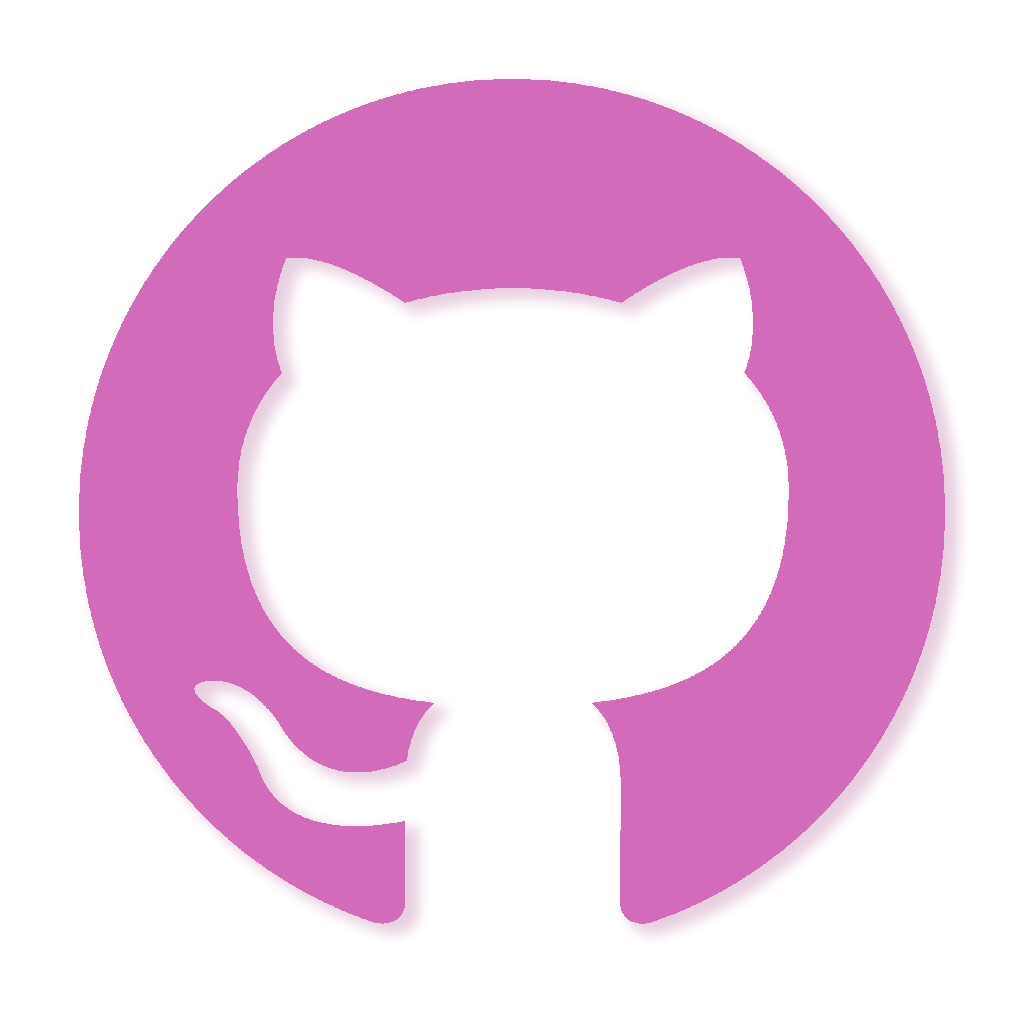
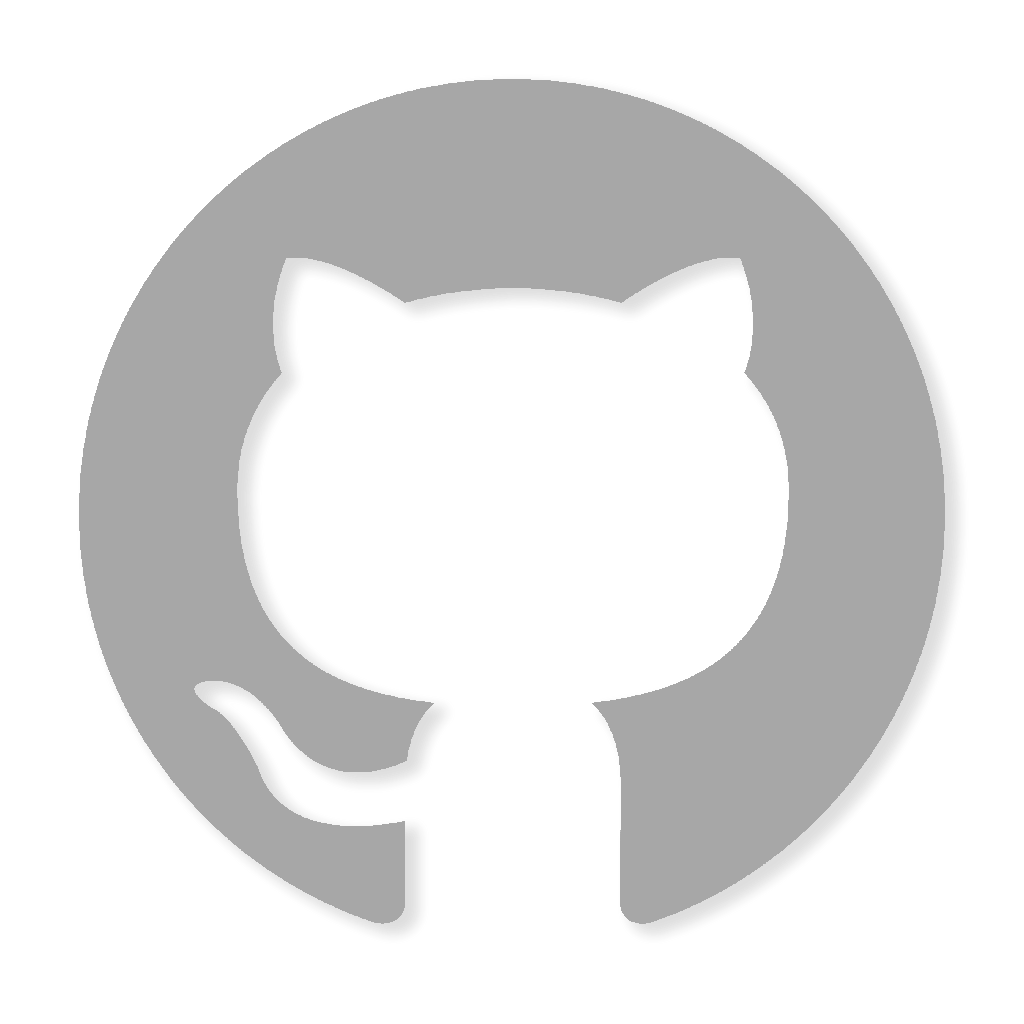
update color-scheme

diff --git a/index.html b/index.html
@@ -23,12 +23,11 @@
     
     <!-- Navbar -->
     <div class="header">
-        <a href="#default" class="logo" data-aos="zoom-in">Timmy</a>
+        <span style="font-size:30px;cursor:pointer" onclick="openNav()">&#9776; </span>
         <div class="header-right">
-          <a class="active" href="index.html" data-aos="zoom-in">About</a>
-          <a href="blog.html" data-aos="zoom-in" data-aos="zoom-in">Blog</a>
-          <a href="projects.html" data-aos="zoom-in">Projects</a>
-          <span style="font-size:30px;cursor:pointer" onclick="openNav()">&#9776; </span>
+          <a class="active" href="index.html">About</a>
+          <a href="blog.html">Blog</a>
+          <a href="projects.html">Projects</a>
         </div>
     </div>
     
@@ -36,7 +35,7 @@
     <!-- Section -->
     <section class="centered">
         <div>
-            <h1 class="hero__header pink__colored" data-aos="fade-right">Hello, Im</h1>
+            <h1 class="hero__header" data-aos="fade-right">Hello, Im</h1>
             <h1 class="hero__header" data-aos="flip-down">Timothy</h1>
             <h1 class="hero__header" data-aos="fade-left">Pidashev</h1>
         </div>
@@ -48,11 +47,11 @@
         <div>
             <h1 class="about__header" data-aos="zoom-out">
                 I'm a 17-year-old on an
-                <span class="orange__highlight">epic journey</span>
+                <span class="highlight">epic journey</span>
             </h1>
             <h1 class="about__header" data-aos="flip-down">
                 to become a
-                <span class="orange__highlight">software developer!</span>
+                <span class="highlight">software developer!</span>
             </h1>
         </div>
         <img src="images/elements/png/line_short.png" alt="line" class="divider__line" data-aos="flip-left">

diff --git a/css/styles.css b/css/styles.css
@@ -7,13 +7,13 @@
 /* Navbar */
 .header {
     overflow: hidden;
-    background-color: #FB93DA;
+    background-color: #333333;
     padding: 20px 10px;
   }
   
   .header a {
     float: left;
-    color: #404082;
+    color: #BBBBBB;
     text-shadow: 3px 2px 2px rgba(199, 130, 59, 0.15);
     text-align: center;
     padding: 12px;
@@ -25,17 +25,17 @@
   
   .header a.logo {
     font-size: 25px;
-    font-weight: bold;
+    font-weight: bold;  
   }
   
   .header a:hover {
-    background-color: #D26BB9;
+    background-color: #BBBBBB;
     color: black;
   }
   
   .header a.active {
-    background-color: #404082;
-    color: white;
+    background-color: #BBBBBB;
+    color: black;
   }
   
   .header-right {
@@ -86,8 +86,8 @@
 
 /* Style */
 html {
-    background-color: #FB93DA;
-    color: #404082;
+    background-color: #333333;
+    color: #BBBBBB;
     font-family: 'Montserrat', sans-serif;
     font-weight: 400;
     font-size: 1vh;
@@ -121,12 +121,8 @@ html {
     align-items: center;
 }
 
-.pink__colored {
-    color: #D26BB9;
-}
-
-.orange__highlight {
-    background-color: #D26BB9;
+.highlight {
+    background-color: #EEEEEE;
     border-radius: 20px;
     line-height: 1.5;
     padding-right: 0.9vw;

diff --git a/blog.html b/blog.html
@@ -23,12 +23,11 @@
     
     <!-- Navbar -->
     <div class="header">
-        <a href="#default" class="logo" data-aos="zoom-in">Timmy</a>
+        <span style="font-size:30px;cursor:pointer" onclick="openNav()">&#9776; </span>
         <div class="header-right">
-          <a href="index.html" data-aos="zoom-in">About</a>
-          <a class="active" href="blog.html" data-aos="zoom-in" data-aos="zoom-in">Blog</a>
-          <a href="projects.html" data-aos="zoom-in">Projects</a>
-          <span style="font-size:30px;cursor:pointer" onclick="openNav()">&#9776; </span>
+          <a href="index.html">About</a>
+          <a class="active" href="blog.html">Blog</a>
+          <a href="projects.html">Projects</a>
         </div>
     </div>
     

diff --git a/projects.html b/projects.html
@@ -24,12 +24,11 @@
     
     <!-- Navbar -->
     <div class="header">
-        <a href="#default" class="logo" data-aos="zoom-in">Timmy</a>
+        <span style="font-size:30px;cursor:pointer" onclick="openNav()">&#9776; </span>
         <div class="header-right">
-          <a href="index.html" data-aos="zoom-in">About</a>
-          <a href="blog.html" data-aos="zoom-in" data-aos="zoom-in">Blog</a>
-          <a class="active" href="projects.html" data-aos="zoom-in">Projects</a>
-          <span style="font-size:30px;cursor:pointer" onclick="openNav()">&#9776; </span>
+          <a href="index.html">About</a>
+          <a href="blog.html">Blog</a>
+          <a class="active" href="projects.html">Projects</a>
         </div>
     </div>
     

diff --git a/download.html b/download.html
@@ -23,12 +23,11 @@
     
     <!-- Navbar -->
     <div class="header">
-        <a href="#default" class="logo" data-aos="zoom-in">Timmy</a>
+        <span style="font-size:30px;cursor:pointer" onclick="openNav()">&#9776; </span>
         <div class="header-right">
-          <a href="index.html" data-aos="zoom-in">About</a>
-          <a href="blog.html" data-aos="zoom-in" data-aos="zoom-in">Blog</a>
-          <a href="projects.html" data-aos="zoom-in">Projects</a>
-          <span style="font-size:30px;cursor:pointer" onclick="openNav()">&#9776; </span>
+          <a class="active" href="index.html">About</a>
+          <a href="blog.html">Blog</a>
+          <a href="projects.html">Projects</a>
         </div>
     </div>
     
